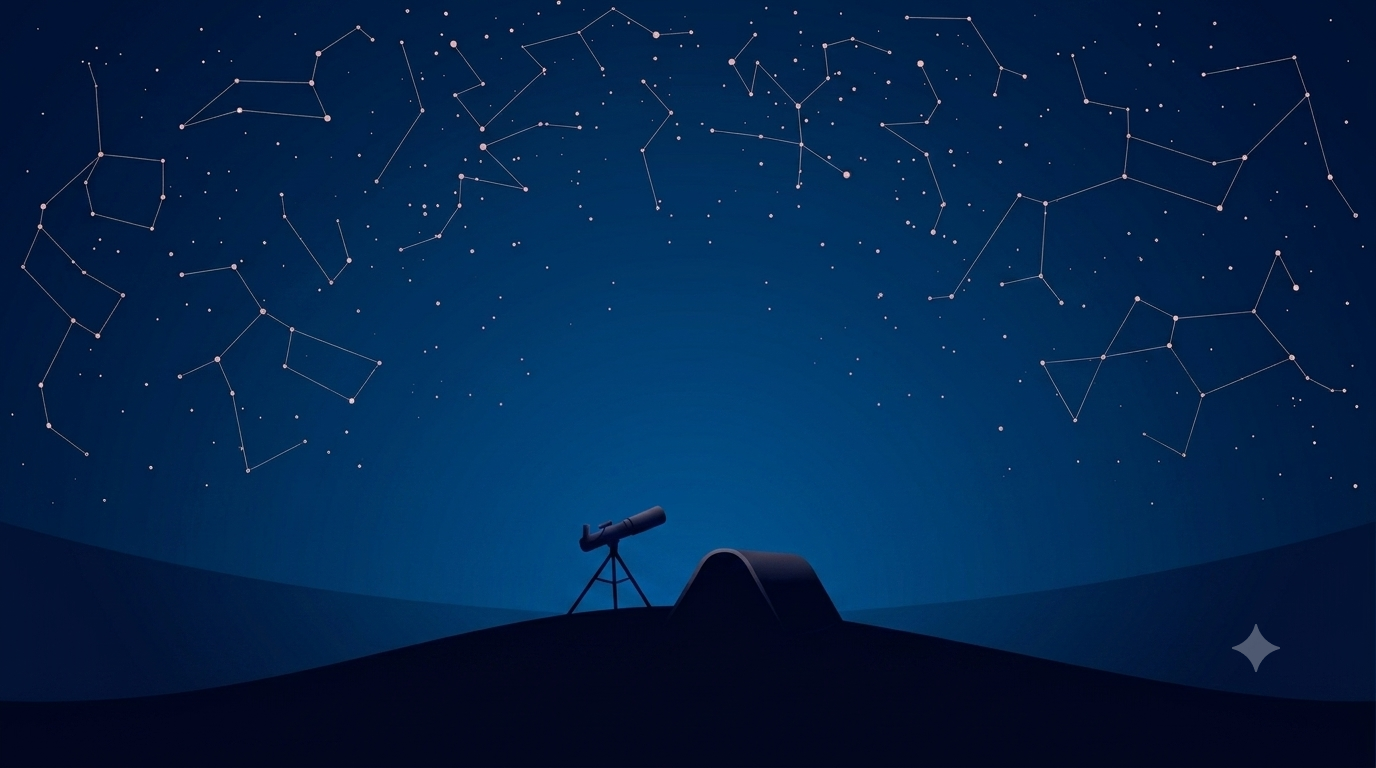
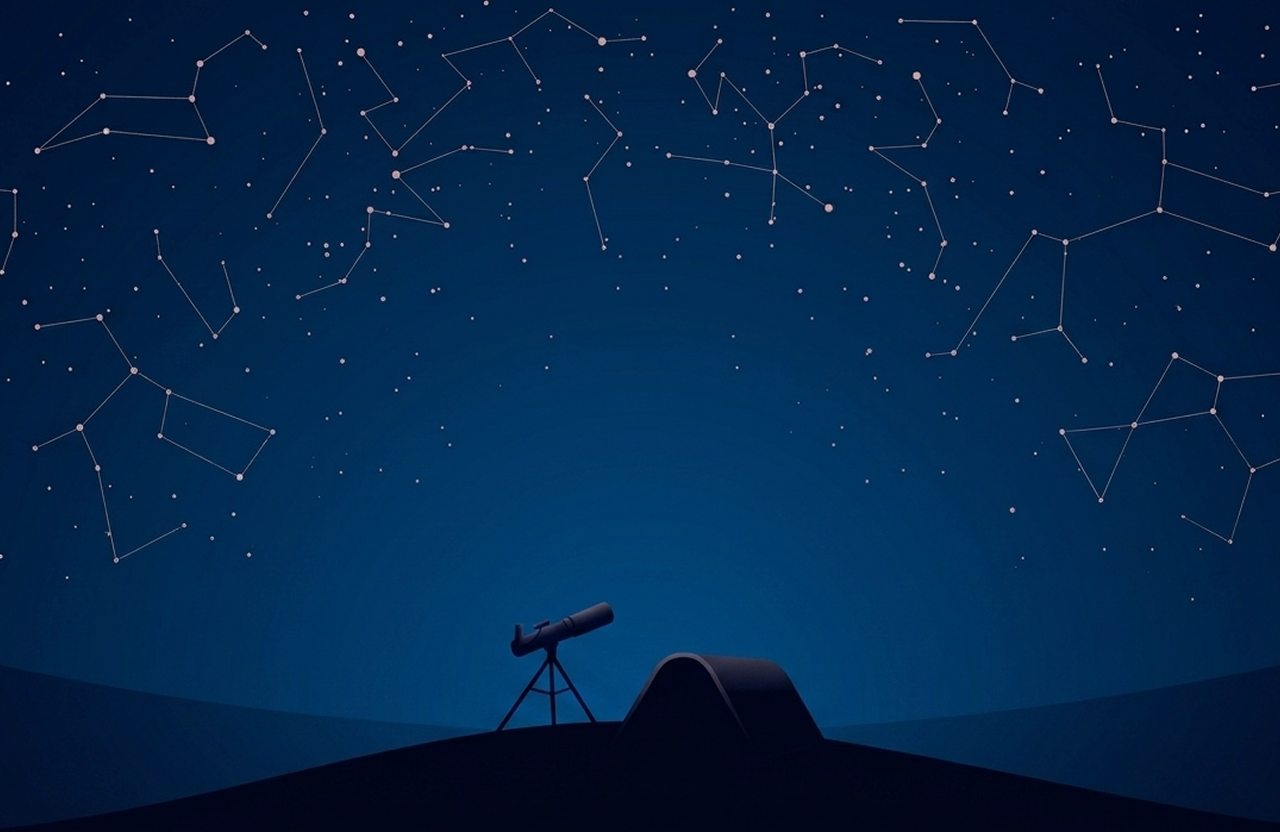
feat(home): add FAQ section and refine Daftar card visuals

diff --git a/src/components/home/Faq.tsx b/src/components/home/Faq.tsx
@@ -1,0 +1,141 @@
+'use client';
+import Image from 'next/image';
+import Link from 'next/link';
+import { useState } from 'react';
+
+const faqData = [
+  {
+    question: "Apa itu study club?",
+    answer: "Study Club adalah program mentoring dan belajar bersama yang dirancang untuk membantu mahasiswa mengembangkan kemampuan di bidang teknologi informasi."
+  },
+  {
+    question: "Apa itu study club?",
+    answer: "Study Club adalah program mentoring dan belajar bersama yang dirancang untuk membantu mahasiswa mengembangkan kemampuan di bidang teknologi informasi."
+  },
+  {
+    question: "Ada materi apa saja di study club?",
+    answer: "Materi yang diberikan disesuaikan dengan kurikulum setiap bidang, mulai dari dasar-dasar UI/UX, Web Development, hingga Data Science."
+  },
+  {
+    question: "Ada materi apa saja di study club?",
+    answer: "Materi yang diberikan disesuaikan dengan kurikulum setiap bidang, mulai dari dasar-dasar UI/UX, Web Development, hingga Data Science."
+  },
+  {
+    question: "Apa benefit ikut study club?",
+    answer: "Kamu akan mendapatkan ilmu baru, relasi, pengalaman bekerja dalam tim, dan portofolio proyek yang berguna untuk karirmu di masa depan."
+  },
+  {
+    question: "Apa benefit ikut study club?",
+    answer: "Kamu akan mendapatkan ilmu baru, relasi, pengalaman bekerja dalam tim, dan portofolio proyek yang berguna untuk karirmu di masa depan."
+  }
+];
+
+export default function Faq() {
+  const [openIndex, setOpenIndex] = useState<number | null>(null);
+
+  const toggleFaq = (index: number) => {
+    setOpenIndex(openIndex === index ? null : index);
+  };
+
+  return (
+    <section id="faq" className="relative w-full bg-[#110729] py-20 lg:py-28 flex flex-col items-center overflow-hidden">
+      <div className="absolute inset-0 z-0 pointer-events-none">
+        <Image
+          src="/studyclub/images/bg%20bintang.png"
+          alt="Stars Background"
+          fill
+          className="object-cover object-center opacity-80"
+        />
+      </div>
+
+      <div className="absolute left-[-50px] lg:left-0 top-1/3 z-0 pointer-events-none opacity-90">
+        <Image 
+          src="/studyclub/images/planet%20ungu.png" 
+          alt="Planet Kiri" 
+          width={300}
+          height={300}
+          className="w-[150px] md:w-[250px] lg:w-[300px] h-auto object-contain" 
+        />
+      </div>
+      <div className="absolute right-4 lg:right-20 top-20 z-0 pointer-events-none opacity-90">
+        <Image 
+          src="/studyclub/images/neptunus.png" 
+          alt="Planet Kanan" 
+          width={100}
+          height={100}
+          className="w-[60px] md:w-[80px] lg:w-[100px] h-auto object-contain" 
+        />
+      </div>
+
+      <div className="max-w-7xl w-full mx-auto px-4 sm:px-6 z-10 flex flex-col items-center">
+        <div className="text-center mb-6">
+          <h2 className="text-4xl md:text-5xl lg:text-[56px] font-bold tracking-wide leading-[1.2] mb-2">
+            <span className="text-transparent bg-clip-text bg-gradient-to-r from-[#8E51FF] to-[#D84693]">Questions?</span> <span className="text-white">We've</span>
+            <br />
+            <span className="text-white">Got</span> <span className="text-transparent bg-clip-text bg-gradient-to-r from-[#8E51FF] to-[#D84693]">Answers</span>
+          </h2>
+        </div>
+
+        <p className="text-white/80 text-sm md:text-base lg:text-lg text-center max-w-2xl mx-auto mb-8 font-light leading-relaxed">
+          Temukan jawaban dari pertanyaan yang paling sering <br className="hidden md:block" /> ditanyakan seputar Study Club.
+        </p>
+
+        <Link
+          href="/kontak"
+          className="flex items-center justify-center gap-2 px-6 py-2.5 mb-16 bg-gradient-to-r from-[#8E51FF] to-[#D84693] text-white font-medium rounded-full hover:scale-105 transition-transform duration-300 shadow-lg shadow-[#D84693]/20"
+        >
+          <span className="text-[15px] font-medium tracking-wide">Kontak Kami</span>
+          <div className="w-6 h-6 bg-white rounded-full flex items-center justify-center shrink-0">
+            <svg 
+              className="w-3.5 h-3.5 text-[#8E51FF]" 
+              fill="none" 
+              viewBox="0 0 24 24" 
+              stroke="currentColor"
+              strokeWidth={3}
+            >
+              <path strokeLinecap="round" strokeLinejoin="round" d="M4.5 19.5l15-15m0 0H8.25m11.25 0v11.25" />
+            </svg>
+          </div>
+        </Link>
+
+        <div className="w-full max-w-5xl grid grid-cols-1 md:grid-cols-2 gap-4 md:gap-x-8 md:gap-y-5">
+          {faqData.map((faq, index) => (
+            <div 
+              key={index}
+              className="w-full"
+            >
+              <button 
+                onClick={() => toggleFaq(index)}
+                className="w-full bg-white hover:bg-gray-50 transition-colors duration-200 rounded-full px-6 py-4 flex justify-between items-center shadow-lg group"
+              >
+                <span className="text-[#1A1A1A] font-bold text-sm md:text-[15px] text-left pr-4">
+                  {faq.question}
+                </span>
+                <div className={`w-7 h-7 shrink-0 rounded-full bg-[#8E51FF] flex justify-center items-center transition-transform duration-300 ${openIndex === index ? 'rotate-180' : ''}`}>
+                  <svg 
+                    className="w-4 h-4 text-white" 
+                    fill="none" 
+                    viewBox="0 0 24 24" 
+                    stroke="currentColor" 
+                    strokeWidth={3}
+                  >
+                    <path strokeLinecap="round" strokeLinejoin="round" d="M19.5 8.25l-7.5 7.5-7.5-7.5" />
+                  </svg>
+                </div>
+              </button>
+              
+              <div 
+                className={`overflow-hidden transition-all duration-300 ease-in-out ${openIndex === index ? 'max-h-40 opacity-100 mt-2' : 'max-h-0 opacity-0'}`}
+              >
+                <div className="bg-white/10 backdrop-blur-sm border border-white/20 rounded-[20px] p-5 text-white/90 text-sm md:text-[15px] leading-relaxed">
+                  {faq.answer}
+                </div>
+              </div>
+            </div>
+          ))}
+        </div>
+
+      </div>
+    </section>
+  );
+}

diff --git a/src/components/home/Journey.tsx b/src/components/home/Journey.tsx
@@ -1,4 +1,5 @@
 'use client';
+import Image from 'next/image';
 
 const steps = [
   {
@@ -111,6 +112,41 @@ export default function Journey() {
         id="journey"
         className="relative w-full bg-[#110729] py-16 md:py-24 flex flex-col items-center overflow-hidden"
       >
+        <div className="absolute inset-0 z-0 pointer-events-none">
+          <Image
+            src="/studyclub/images/bg%20bintang.png"
+            alt="Stars Background"
+            fill
+            className="object-cover object-center opacity-80"
+          />
+        </div>
+        <div className="absolute left-[-20px] lg:left-10 top-[30%] lg:top-[35%] z-0 pointer-events-none">
+          <Image 
+            src="/studyclub/images/planet%20merah.png" 
+            alt="Planet Merah" 
+            width={200}
+            height={200}
+            className="w-[120px] md:w-[160px] lg:w-[200px] h-auto object-contain drop-shadow-2xl opacity-90" 
+          />
+        </div>
+        <div className="absolute right-[-20px] lg:right-10 top-10 lg:top-16 z-0 pointer-events-none">
+          <Image 
+            src="/studyclub/images/planet%20ungu.png" 
+            alt="Planet Ungu" 
+            width={180}
+            height={180}
+            className="w-[100px] md:w-[150px] lg:w-[180px] h-auto object-contain drop-shadow-2xl opacity-90" 
+          />
+        </div>
+        <div className="absolute right-4 lg:right-20 bottom-10 lg:bottom-20 z-0 pointer-events-none">
+          <Image 
+            src="/studyclub/images/meteor.png" 
+            alt="Meteor" 
+            width={250}
+            height={250}
+            className="w-[150px] md:w-[200px] lg:w-[250px] h-auto object-contain drop-shadow-2xl opacity-80" 
+          />
+        </div>
         <div className="text-center mb-12 md:mb-20 z-10 px-4">
           <h2 className="text-3xl sm:text-4xl md:text-5xl lg:text-6xl font-bold text-white tracking-wide leading-tight">
             Your Journey

diff --git a/src/components/home/Daftar.tsx b/src/components/home/Daftar.tsx
@@ -4,9 +4,36 @@ import Link from 'next/link';
 export default function Daftar() {
   return (
     <section id="daftar" className="relative w-full bg-[#110729] py-16 md:py-20 lg:py-28 flex flex-col items-center overflow-hidden">
+      <div className="absolute inset-0 z-0 pointer-events-none">
+        <Image
+          src="/studyclub/images/bg%20bintang.png"
+          alt="Stars Background"
+          fill
+          className="object-cover object-center opacity-80"
+        />
+      </div>
       <div className="max-w-7xl w-full mx-auto px-4 sm:px-6 z-10">
-        <div className="relative w-full max-w-5xl mx-auto rounded-[24px] md:rounded-[32px] overflow-hidden bg-[#0F0833] bg-no-repeat bg-gradient-to-b md:bg-gradient-to-r from-[#D64BB7] via-[#5F5CEC] to-[#0F0833] p-6 sm:p-8 md:py-12 md:px-12 lg:py-14 lg:px-16 flex flex-col md:flex-row items-center gap-8 md:gap-12 lg:gap-16 border border-white/10 shadow-2xl">
-          <div className="w-full md:w-[40%] flex justify-center shrink-0">
+        <div className="relative w-full max-w-5xl mx-auto rounded-[24px] md:rounded-[32px] overflow-hidden bg-no-repeat bg-gradient-to-b md:bg-gradient-to-r from-[rgba(214,75,183,0.55)] via-[rgba(95,92,236,0.55)] to-[rgba(15,8,51,0.55)] p-6 sm:p-8 md:py-12 md:px-12 lg:py-14 lg:px-16 flex flex-col md:flex-row items-center gap-8 md:gap-12 lg:gap-16 shadow-2xl">
+          <div className="absolute top-[-50px] right-[-50px] md:top-[-80px] md:right-[-80px] z-0 pointer-events-none opacity-80">
+            <Image
+              src="/studyclub/images/neptunus.png"
+              alt="Neptune Planet"
+              width={350}
+              height={350}
+              className="w-[200px] sm:w-[250px] md:w-[350px] lg:w-[400px] h-auto object-contain"
+            />
+          </div>
+          <div className="absolute bottom-[-30px] left-[-30px] md:bottom-[-50px] md:left-[-50px] z-0 pointer-events-none opacity-80">
+            <Image
+              src="/studyclub/images/si%20gelap.png"
+              alt="Dark Planet"
+              width={250}
+              height={250}
+              className="w-[150px] sm:w-[180px] md:w-[250px] lg:w-[300px] h-auto object-contain"
+            />
+          </div>
+
+          <div className="relative z-10 w-full md:w-[40%] flex justify-center shrink-0">
             <div className="relative w-[180px] h-[180px] sm:w-[240px] sm:h-[240px] md:w-[320px] md:h-[320px] lg:w-[350px] lg:h-[350px] transition-transform duration-500 hover:scale-105">
               <Image
                 src="/studyclub/images/roket.png"
@@ -19,7 +46,7 @@ export default function Daftar() {
             </div>
           </div>
 
-          <div className="w-full md:w-[60%] flex flex-col items-center md:items-start text-center md:text-left">
+          <div className="relative z-10 w-full md:w-[60%] flex flex-col items-center md:items-start text-center md:text-left">
             <h2 className="text-3xl sm:text-4xl md:text-5xl lg:text-[52px] font-bold leading-tight mb-3 sm:mb-4 tracking-wide text-white">
               <span className="text-[#FF8A8A]">Ready</span> to Unlock <br className="hidden md:block" />
               Your Potential?

diff --git a/src/components/home/Mentor.tsx b/src/components/home/Mentor.tsx
@@ -19,6 +19,14 @@ export default function Mentor() {
 
   return (
     <section id="mentor" className="relative w-full bg-[#110729] py-24 flex flex-col items-center overflow-hidden">
+      <div className="absolute inset-0 z-0 pointer-events-none">
+        <Image
+          src="/studyclub/images/bg%20bintang.png"
+          alt="Stars Background"
+          fill
+          className="object-cover object-center opacity-80"
+        />
+      </div>
       <div className="max-w-7xl w-full mx-auto px-6 flex flex-col items-center z-10">
         <h2 className="text-4xl md:text-5xl lg:text-6xl font-bold mb-4 text-center text-white tracking-wide">
           Guided By

diff --git a/src/components/home/Learning.tsx b/src/components/home/Learning.tsx
@@ -9,10 +9,10 @@ export default function Learning() {
           src="/studyclub/images/bg%20learning.png"
           alt="Learning Background"
           fill
-          className="object-cover object-center w-full h-full"
+          className="object-cover object-bottom w-full h-full"
           quality={100}
         />
-        <div className="absolute top-0 left-0 w-full h-40 bg-gradient-to-b from-[#110729] to-transparent"></div>
+        <div className="absolute top-0 left-0 w-full h-20 bg-gradient-to-b from-[#110729] to-transparent"></div>
         <div className="absolute bottom-0 left-0 w-full h-40 bg-gradient-to-t from-[#110729] to-transparent"></div>
       </div>
 

diff --git a/src/app/home/page.tsx b/src/app/home/page.tsx
@@ -4,6 +4,7 @@ import Learning from '@/components/home/Learning';
 import Journey from '@/components/home/Journey';
 import Mentor from '@/components/home/Mentor';
 import Daftar from '@/components/home/Daftar';
+import Faq from '@/components/home/Faq';
 
 export default function HomePage() {
   return (
@@ -14,6 +15,7 @@ export default function HomePage() {
       <Mentor />
       <Journey />
       <Daftar />
+      <Faq />
     </main>
   );
 }